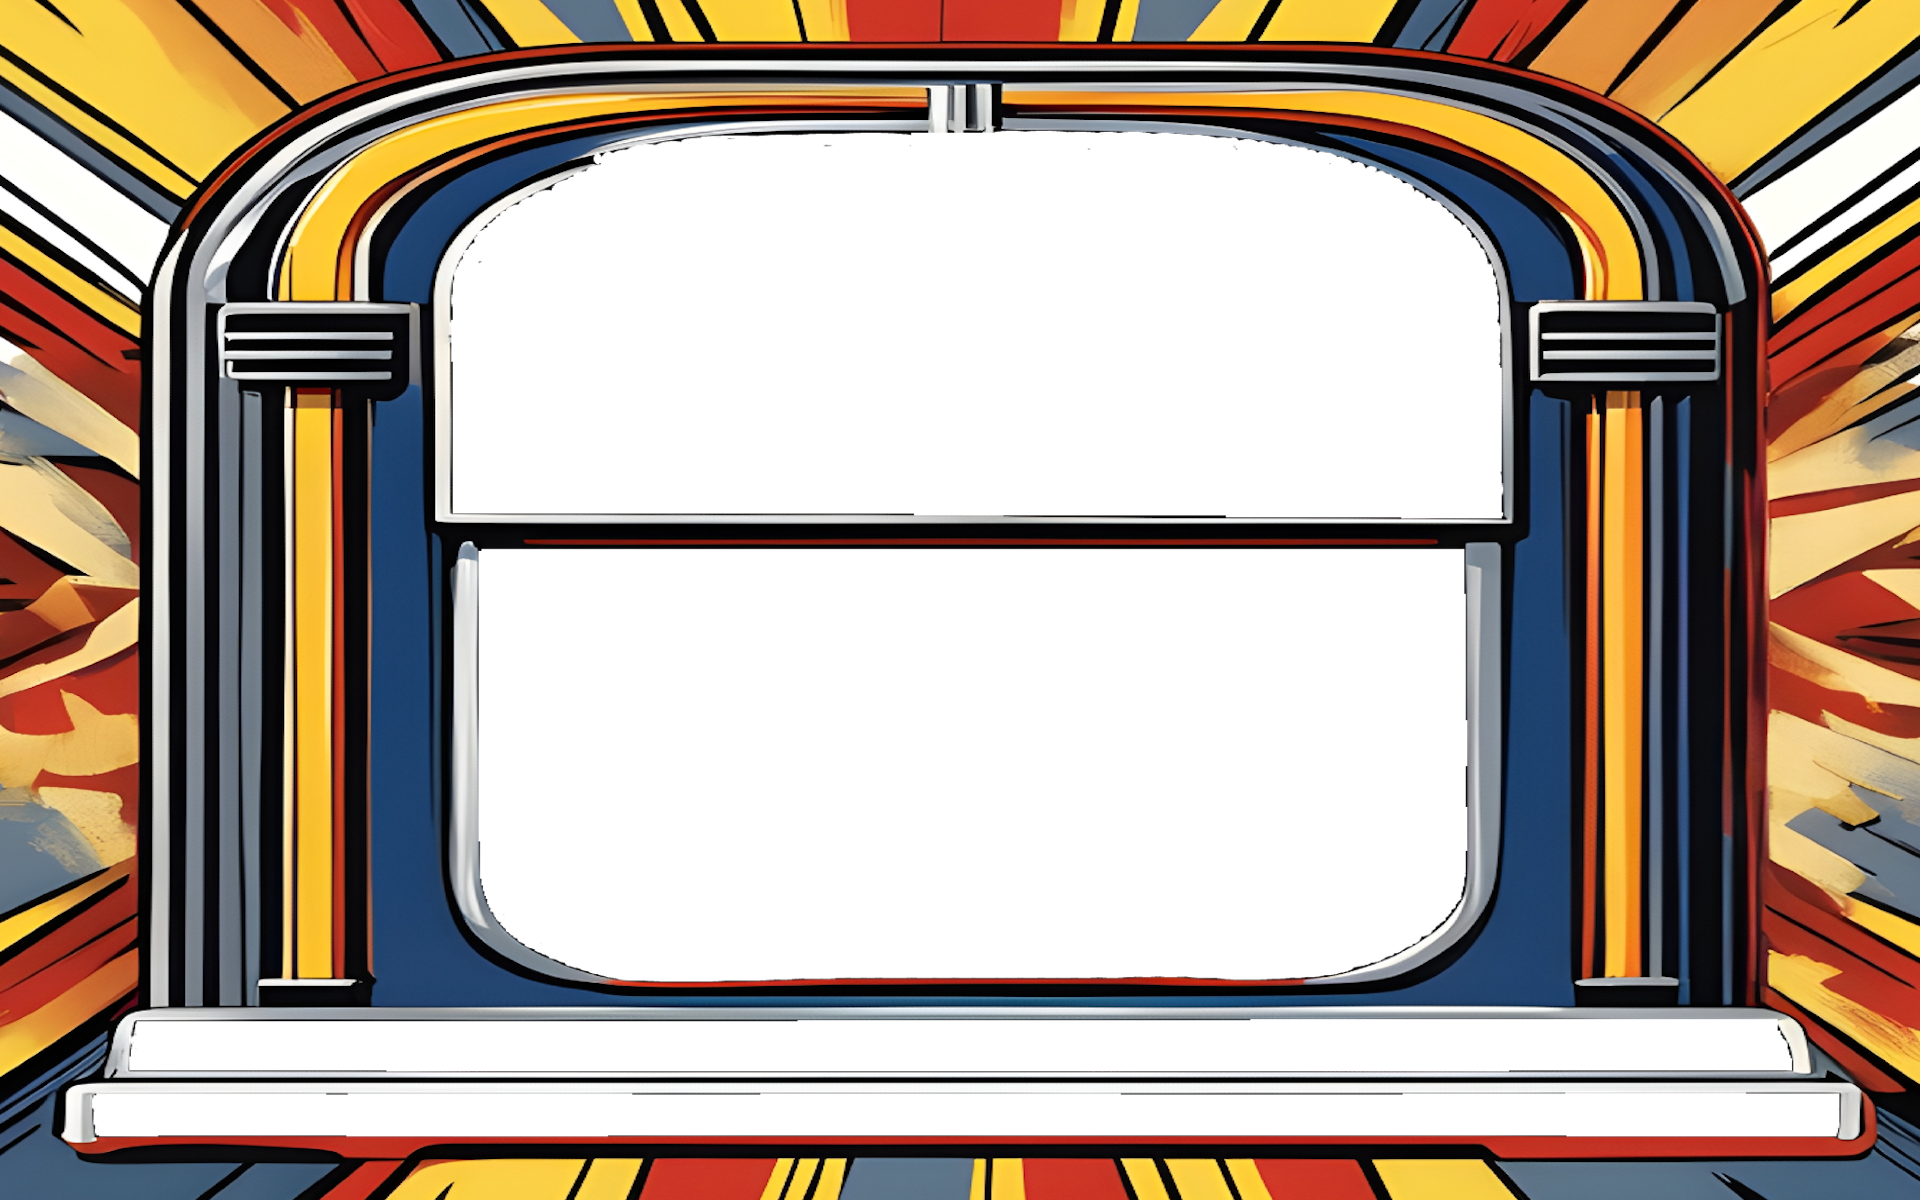
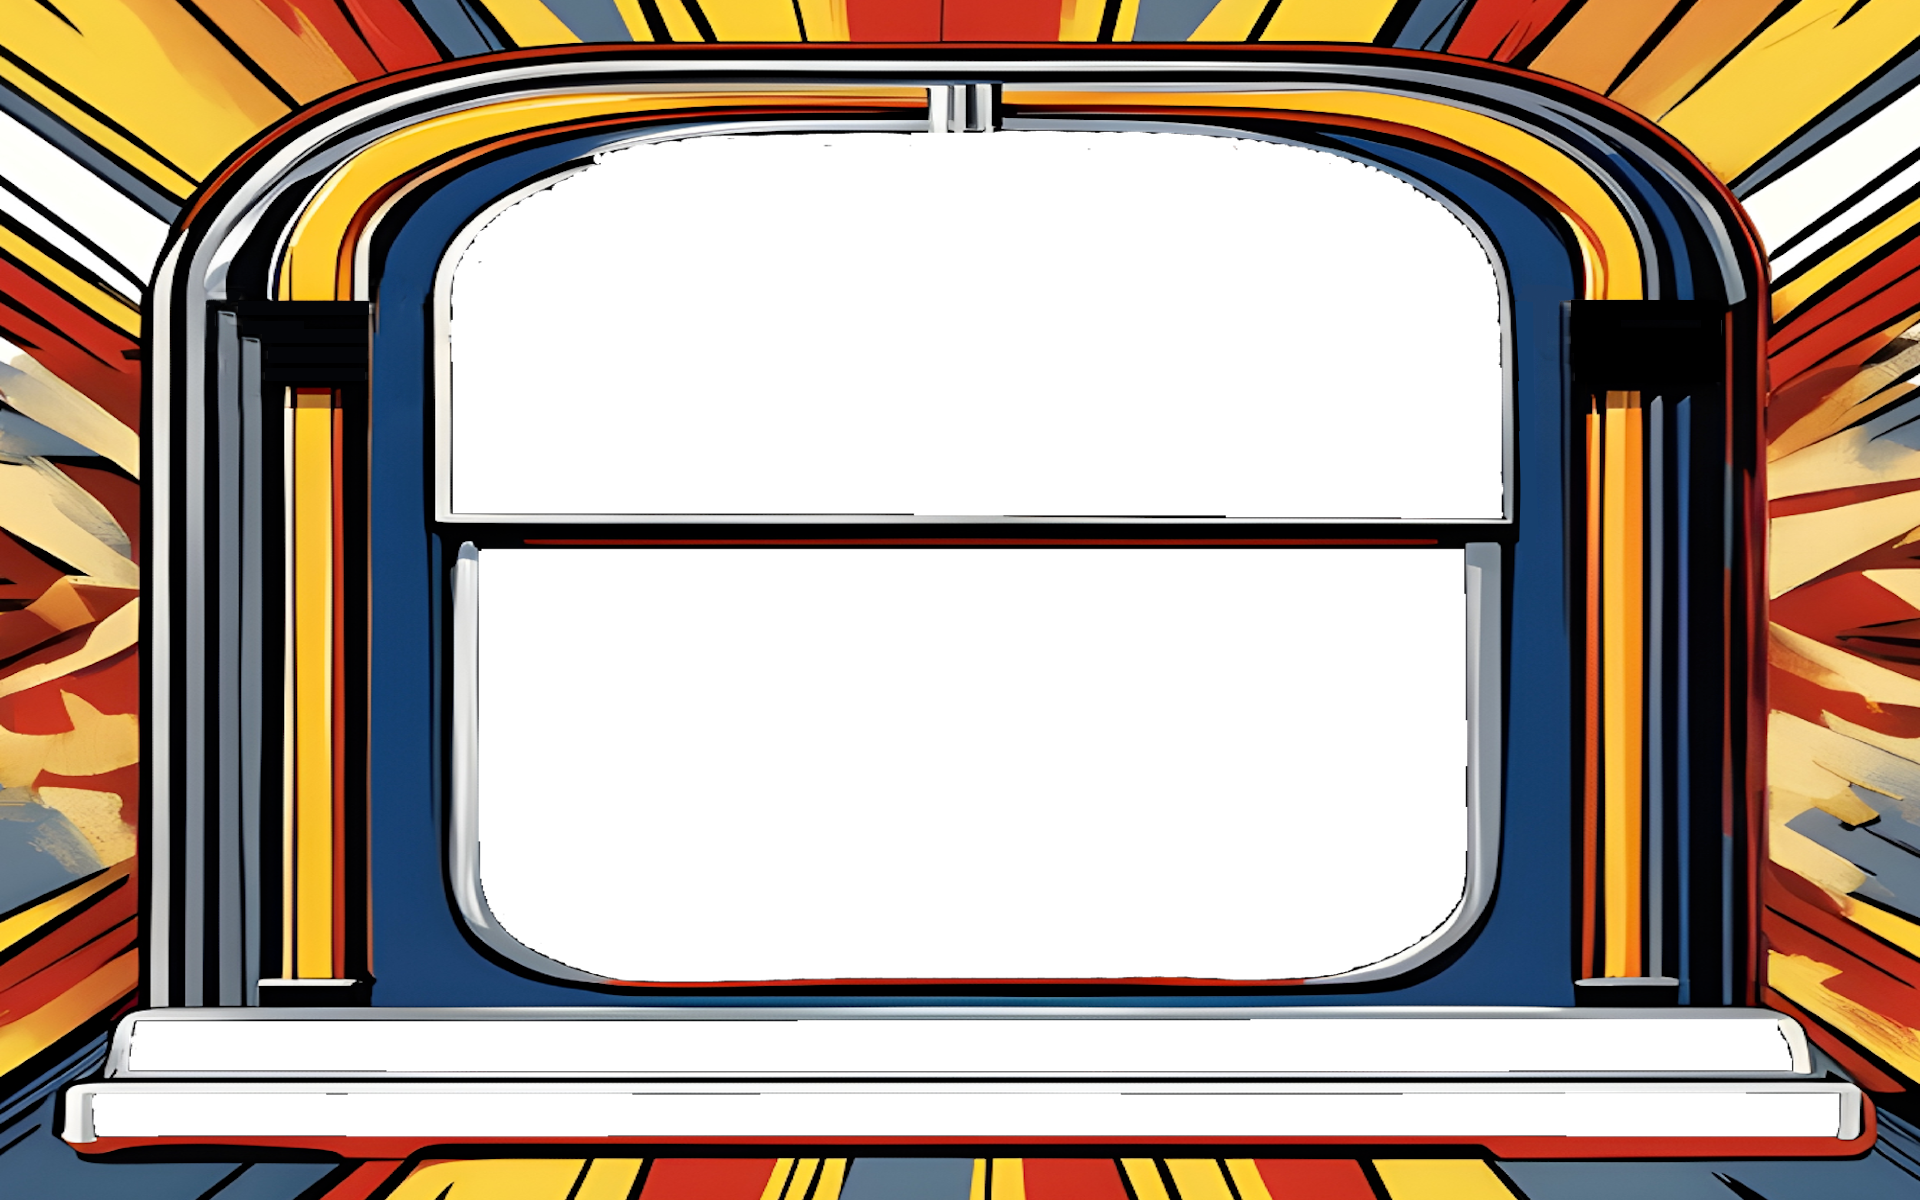
Deploying updates

Changed region(s): [[0.7812, 0.2467, 0.9062, 0.4625], [0.0938, 0.2467, 0.2188, 0.3392]]

diff --git a/music/css/styles.css b/music/css/styles.css
@@ -69,6 +69,23 @@ body {
     width: 300px;
 }
 
+/* Buttons */
+.cover-button {
+    position: fixed;
+    top: 226px;
+    height: 64px;
+    width: 148px;
+}
+.cover-button.left {
+    left: 161px;
+}
+.cover-button.right {
+    right: 157px;
+}
+.cover-button.active {
+    box-shadow: 8px 10px 5px lightblue;
+}
+
 /* Sider */
 #slider {
     position: fixed;
@@ -106,7 +123,47 @@ body {
     border-radius: 100%;
 }
 
-/* Info */
+/* Info Panel */
+.info-panel-wrapper {
+    position: fixed;
+    background-color: transparent;
+    width: 680px;
+    height: 278px;
+    perspective: 1000px;
+    top: 428px;
+    left: 393px;
+}
+.info-panel-inner {
+    position: relative;
+    width: 100%;
+    height: 100%;
+    text-align: center;
+    transition: transform 0.6s;
+    transform-style: preserve-3d;
+    box-shadow: 0 4px 8px 0 rgba(0,0,0,0.2);
+}
+.info-panel-wrapper.show-back .info-panel-inner {
+    transform: rotateY(180deg);
+}
+.info-panel {
+    position: absolute;
+    width: 100%;
+    height: 100%;
+    -webkit-backface-visibility: hidden;
+    backface-visibility: hidden;
+    color: #eeeeee;
+}
+.info-panel.front {
+}
+.info-panel.back {
+    transform: rotateY(180deg);
+}
+.info-panel-header {
+    font-family: "Mooli", sans-serif;
+    font-size: 24px;
+}
+
+/* Info Bars */
 .info-bar {
     position: fixed;
     z-index: 99;

diff --git a/music/js/app/main.js b/music/js/app/main.js
@@ -17,17 +17,33 @@ define(["jquery", "coverflow"], function($) {
 			$title.text($activeAlbum.attr("data-title"));
 			$genre.text($activeAlbum.attr("data-genre"));
 			$releaseDate.text(releaseDate.toLocaleDateString('en-GB'));
+
+			$('#slider .slider-button').addClass('updating').val($activeAlbum.attr("data-album-num")).removeClass('updating');
 		}
 	});
 
 	$('#coverflow img').click(function() {
-		if( ! $(this).hasClass('ui-state-active')){
+		if(!$(this).hasClass('ui-state-active')){
 			return;
 		}
 		$('#coverflow').coverflow('next');
 	});
 
-	$('#slider .slider-button').on('input', function() {
+	$('.cover-button').on('click', function() {
+		const $button = $(this);
+
+		$('#actions .cover-button').removeClass('active');
+		$button.addClass('active');
+
+		if($button.hasClass('left')) {
+			$('.info-panel-wrapper').removeClass('show-back');
+		} else {
+			$('.info-panel-wrapper').addClass('show-back');
+		}
+
+	});
+
+	$('#slider .slider-button:not(.updating)').on('input', function() {
 		$('#coverflow img[data-album-num="' + $(this).val() + '"]').trigger('click');
 	});
 });

diff --git a/music/index.html b/music/index.html
@@ -184,9 +184,27 @@
                 <img src="img/covers/5TbgNZatKeCa3V4CJI2eEg.jpg" data-album-num="168" data-title="Wings Over America" data-artist="Wings" data-genre="Pop" data-release-date="1976-12-10" />
             </div>
     </div>
+
+    <div id="actions">
+        <img class="cover-button left active" src="/music/img/button.png" alt="button"/>
+        <img class="cover-button right" src="/music/img/button.png" alt="button"/>
+    </div>
+
     <div id="slider">
         <input type="range" min="1" max="169" step="1" value="4" class="slider-button">
     </div>
+
+    <div class="info-panel-wrapper">
+        <div class="info-panel-inner">
+            <div class="info-panel front">
+                <span class="info-panel-header">Filters:</span>
+            </div>
+            <div class="info-panel back">
+                <span class="info-panel-header">Tracks:</span>
+            </div>
+        </div>
+    </div>
+
     <div class="info-bar top">
         <div class="info-text title"></div>
     </div>
